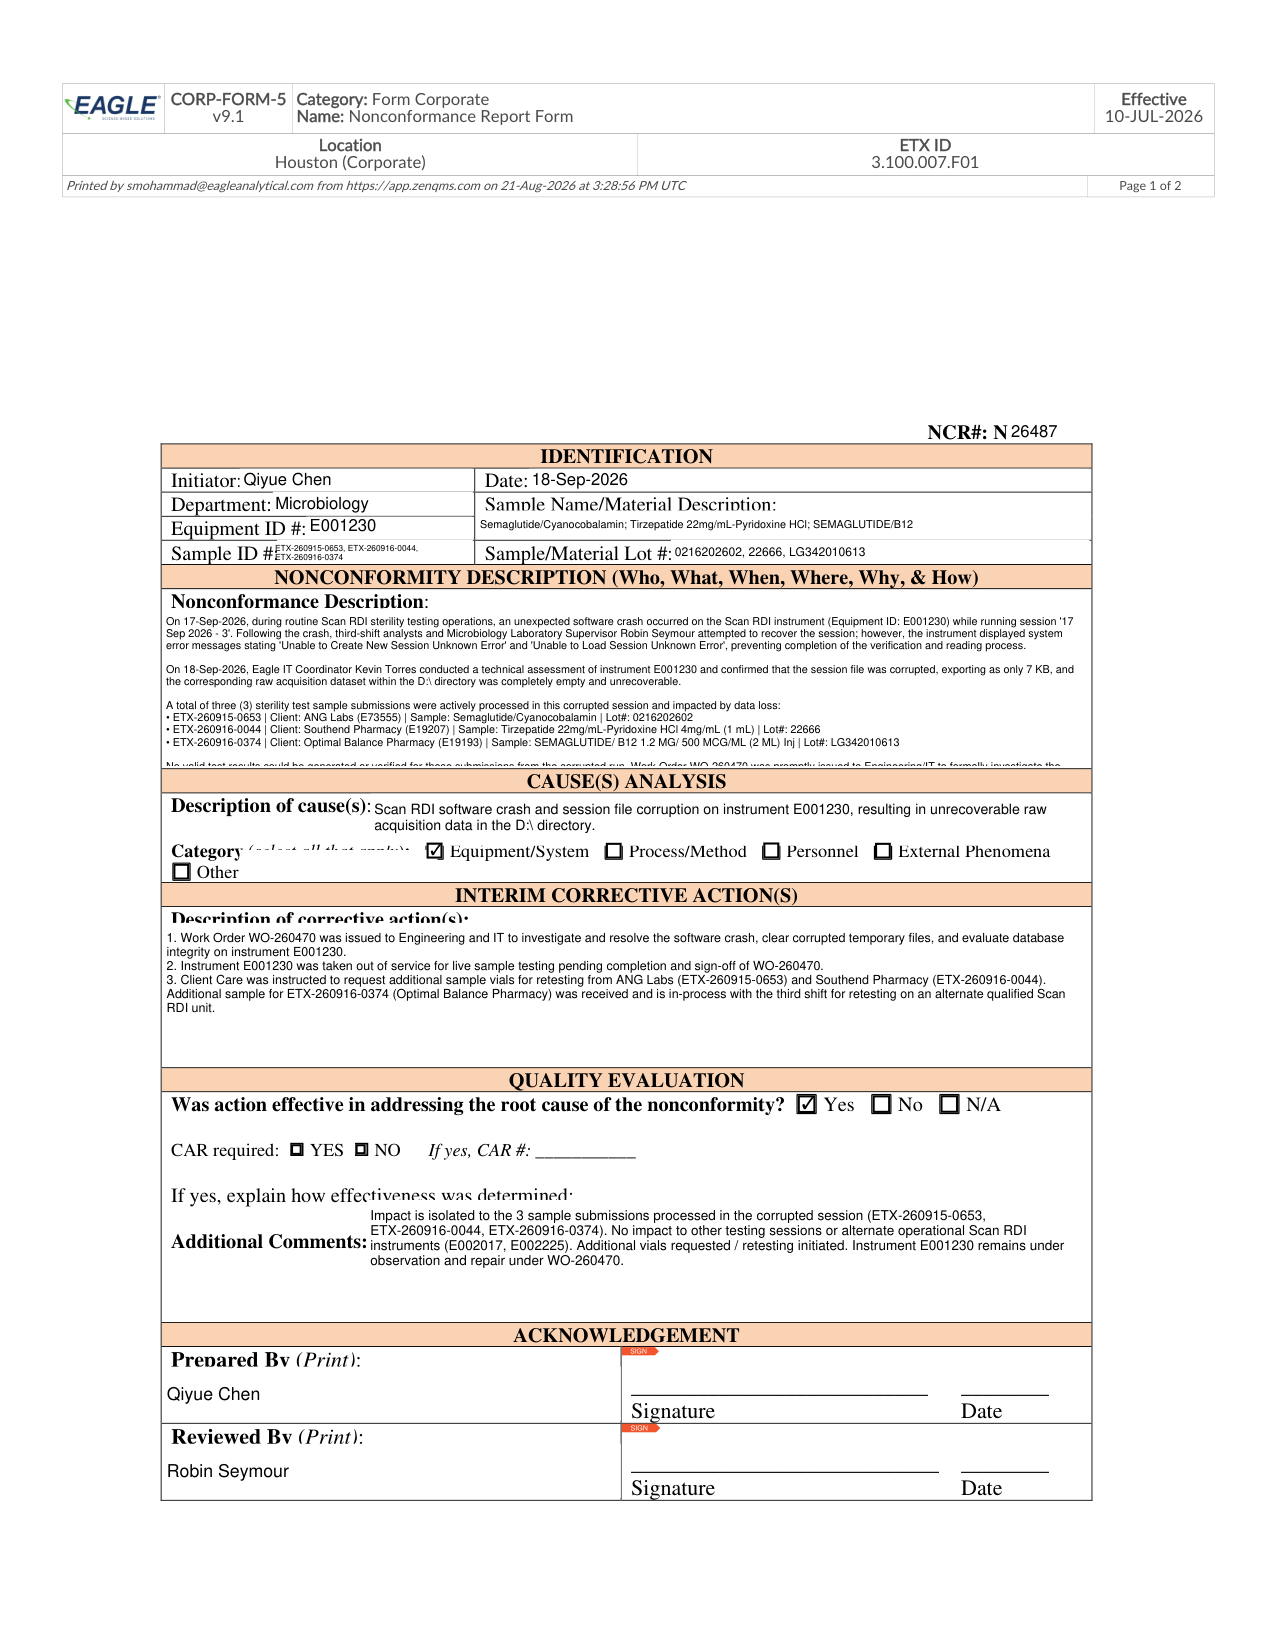
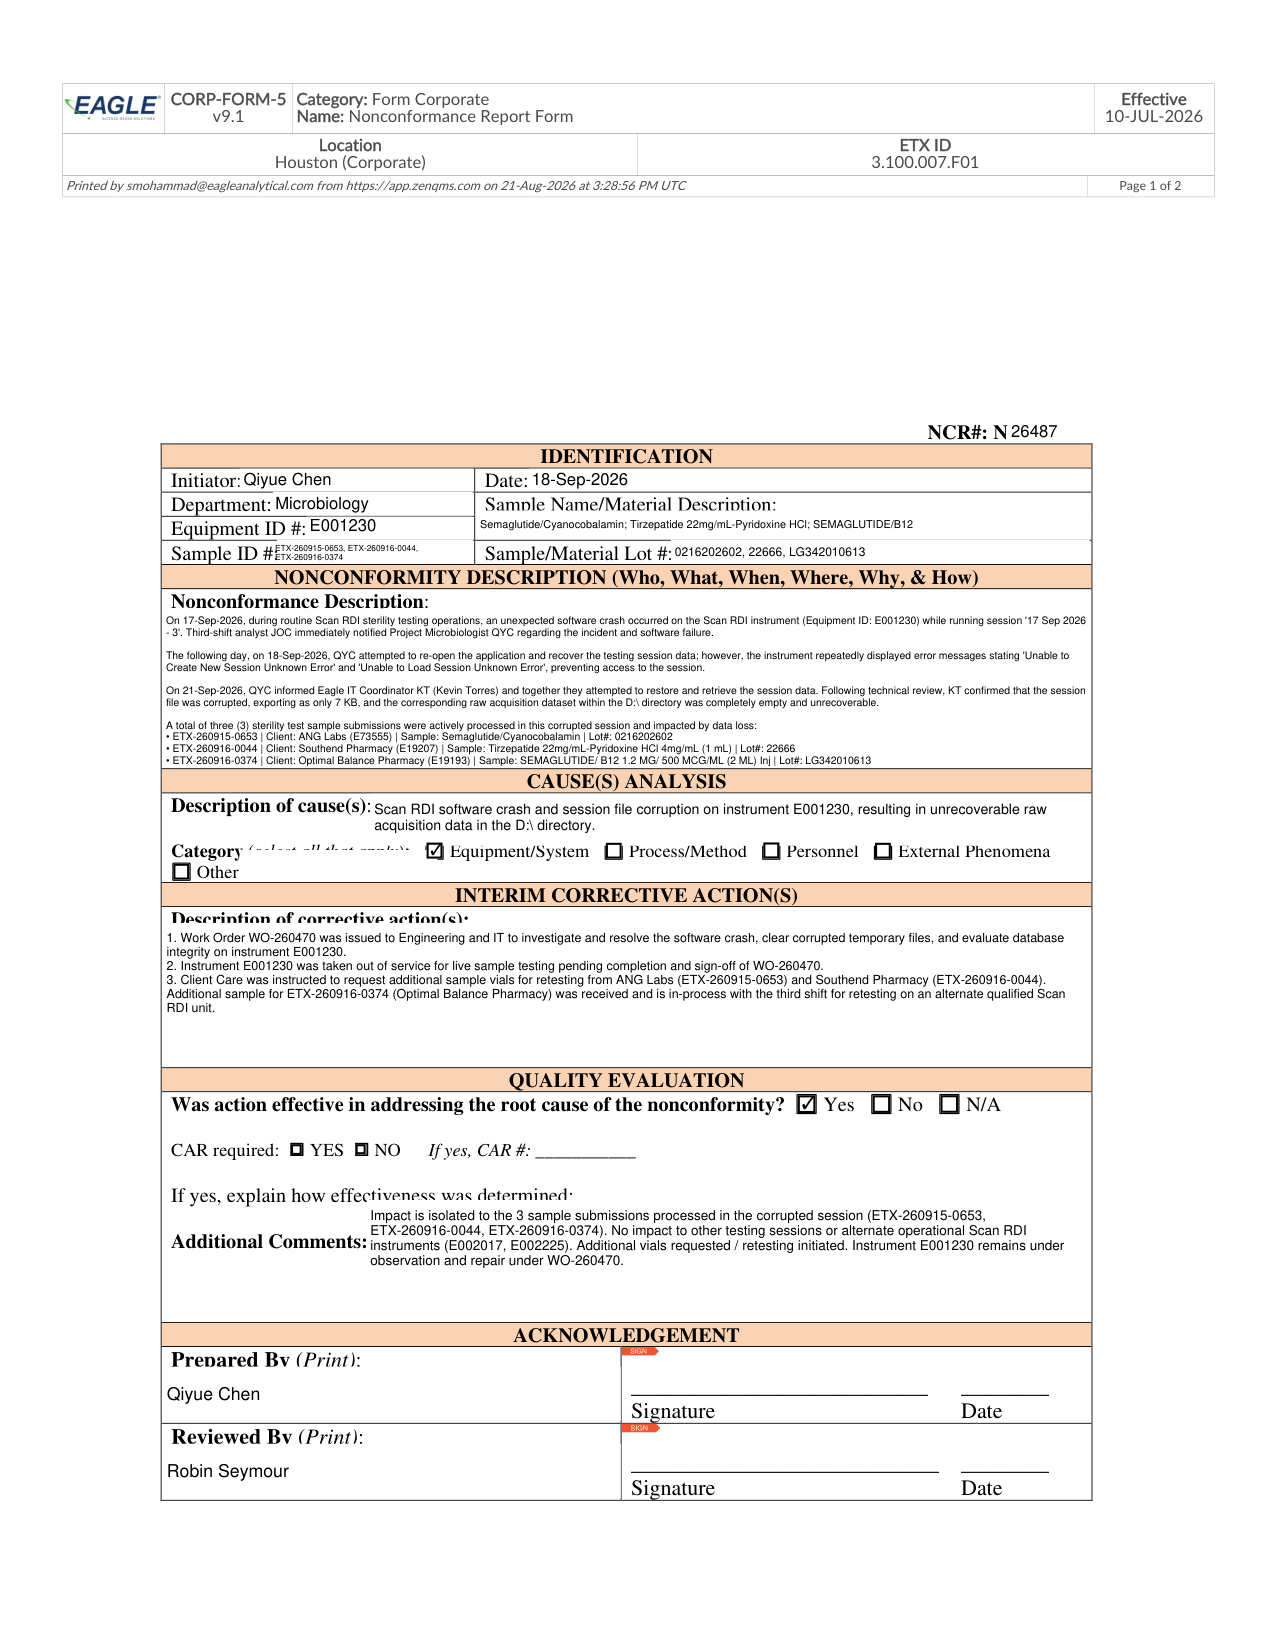
fix(ncr): refine N26487 description with detailed timeline of JOC, QYC, and KT actions

Changed region(s): [[0.1224, 0.3709, 0.8565, 0.4636]]

diff --git a/scratch/fill_clean_n26487.py b/scratch/fill_clean_n26487.py
@@ -74,11 +74,12 @@ for w in list(p1.widgets()):
         w.text_fontsize = 5.8
         w.field_value = '0216202602, 22666, LG342010613'
     elif fn == 'Text Field7':
-        # Nonconformance Description with complete sample/client/lot details
-        w.text_fontsize = 5.2
+        # Nonconformance Description with detailed personal timeline and actions
+        w.text_fontsize = 5.0
         w.field_value = (
-            "On 17-Sep-2026, during routine Scan RDI sterility testing operations, an unexpected software crash occurred on the Scan RDI instrument (Equipment ID: E001230) while running session '17 Sep 2026 - 3'. Following the crash, third-shift analysts and Microbiology Laboratory Supervisor Robin Seymour attempted to recover the session; however, the instrument displayed system error messages stating 'Unable to Create New Session Unknown Error' and 'Unable to Load Session Unknown Error', preventing completion of the verification and reading process.\n\n"
-            "On 18-Sep-2026, Eagle IT Coordinator Kevin Torres conducted a technical assessment of instrument E001230 and confirmed that the session file was corrupted, exporting as only 7 KB, and the corresponding raw acquisition dataset within the D:\\ directory was completely empty and unrecoverable.\n\n"
+            "On 17-Sep-2026, during routine Scan RDI sterility testing operations, an unexpected software crash occurred on the Scan RDI instrument (Equipment ID: E001230) while running session '17 Sep 2026 - 3'. Third-shift analyst JOC immediately notified Project Microbiologist QYC regarding the incident and software failure.\n\n"
+            "The following day, on 18-Sep-2026, QYC attempted to re-open the application and recover the testing session data; however, the instrument repeatedly displayed error messages stating 'Unable to Create New Session Unknown Error' and 'Unable to Load Session Unknown Error', preventing access to the session.\n\n"
+            "On 21-Sep-2026, QYC informed Eagle IT Coordinator KT (Kevin Torres) and together they attempted to restore and retrieve the session data. Following technical review, KT confirmed that the session file was corrupted, exporting as only 7 KB, and the corresponding raw acquisition dataset within the D:\\ directory was completely empty and unrecoverable.\n\n"
             "A total of three (3) sterility test sample submissions were actively processed in this corrupted session and impacted by data loss:\n"
             "• ETX-260915-0653 | Client: ANG Labs (E73555) | Sample: Semaglutide/Cyanocobalamin | Lot#: 0216202602\n"
             "• ETX-260916-0044 | Client: Southend Pharmacy (E19207) | Sample: Tirzepatide 22mg/mL-Pyridoxine HCl 4mg/mL (1 mL) | Lot#: 22666\n"
@@ -160,13 +161,13 @@ try:
     new_doc.save(out_pdf_docs)
     saved_paths.append(out_pdf_docs)
 except Exception as e:
-    print('Could not save to', out_pdf_docs, '(locked). Saving to Final copy.')
+    print('Could not save to', out_pdf_docs, '(locked).')
 
 try:
     new_doc.save(out_pdf_oos)
     saved_paths.append(out_pdf_oos)
 except Exception as e:
-    print('Could not save to', out_pdf_oos, '(locked). Saving to Final copy.')
+    print('Could not save to', out_pdf_oos, '(locked).')
 
 new_doc.save(out_pdf_docs_final)
 saved_paths.append(out_pdf_docs_final)
@@ -183,5 +184,5 @@ pix1.save(r'C:\Users\qchen\OneDrive - Professional Compounding Centers of Americ
 
 pix2 = d[1].get_pixmap(dpi=150)
 pix2.save(r'C:\Users\qchen\OneDrive - Professional Compounding Centers of America, Inc\Documents\OOS\scratch\clean_n26487_p2.png')
-print('Successfully regenerated clean N26487 PDF & PNGs with full sample info.')
+print('Successfully regenerated clean N26487 PDF & PNGs with detailed timeline.')
 print('Saved to:', saved_paths)
